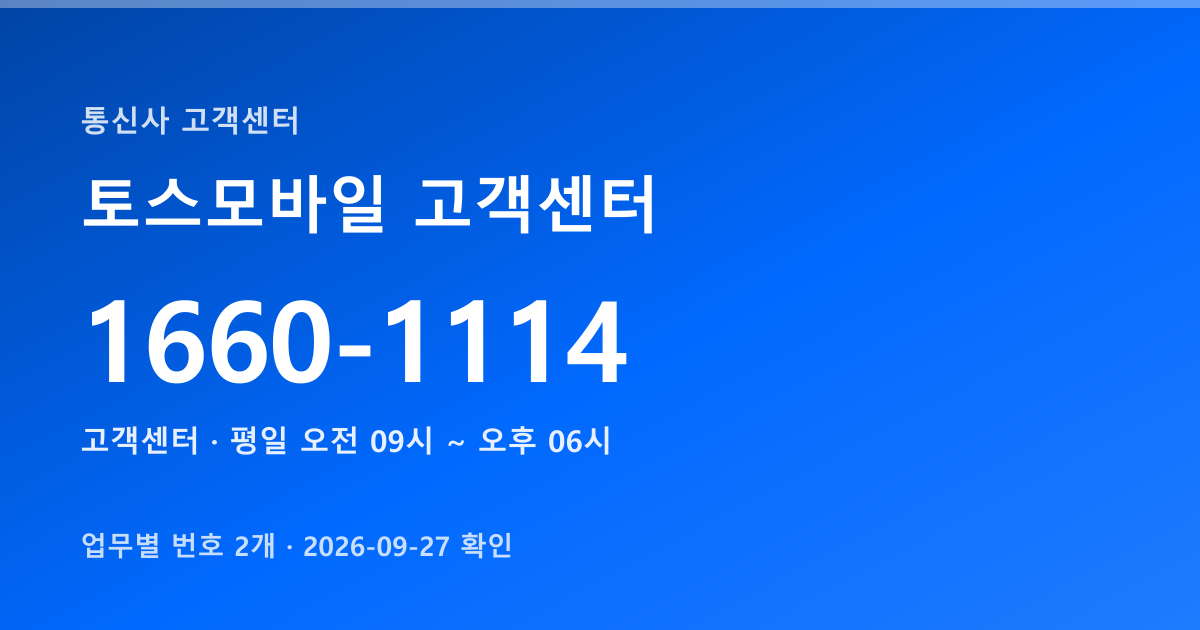
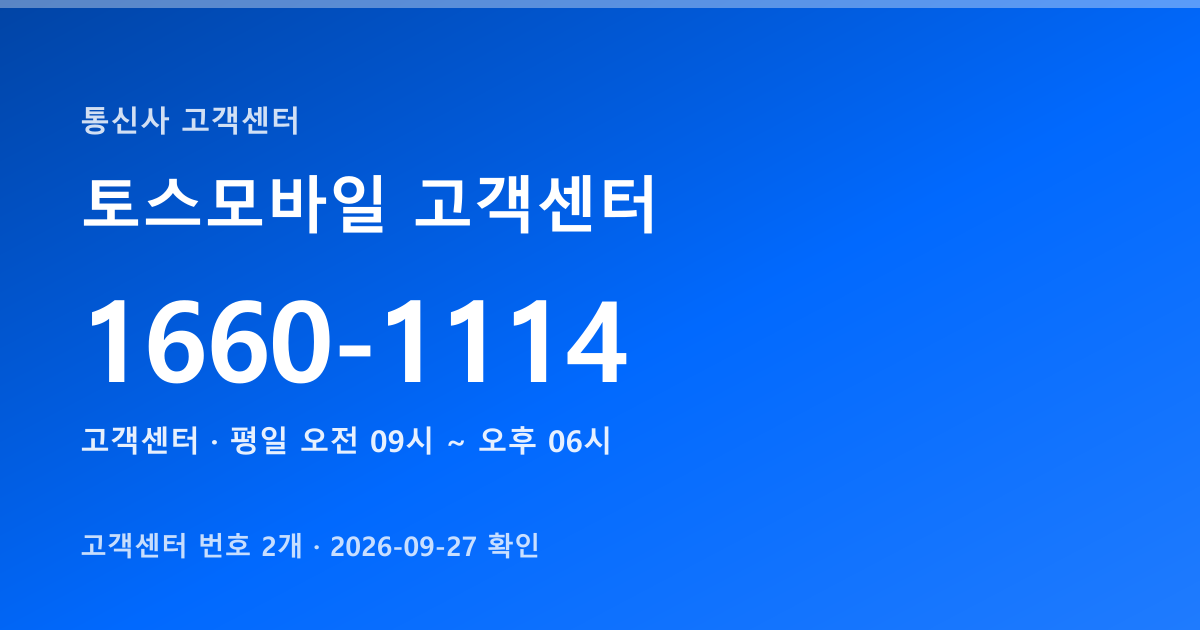
fix: OG 카드도 numbersIntro 글은 '고객센터 번호' 로

Changed region(s): [[0.0617, 0.8444, 0.4625, 0.9048]]

diff --git a/scripts/make-og-callcenter.ts b/scripts/make-og-callcenter.ts
@@ -96,7 +96,7 @@ let made = 0;
     <text x="80" y="228" font-size="62" font-weight="800">${esc(c.name)}${c.industry === 'loan' ? ' 대출' : ''} 고객센터</text>
     <text x="80" y="382" font-size="112" font-weight="800" letter-spacing="-2">${esc(c.main.tel)}</text>
     <text x="80" y="452" font-size="30" font-weight="600" opacity=".9">${esc(c.main.label)}${hours ? ' · ' + esc(hours) : ''}</text>
-    <text x="80" y="556" font-size="27" font-weight="600" opacity=".78">업무별 번호 ${(c.numbers || []).length}개 · ${hasAgent ? `${agent} 연결 · ` : ''}${esc(c.verifiedAt)} 확인</text>
+    <text x="80" y="556" font-size="27" font-weight="600" opacity=".78">${c.numbersIntro ? '고객센터 번호' : '업무별 번호'} ${(c.numbers || []).length}개 · ${hasAgent ? `${agent} 연결 · ` : ''}${esc(c.verifiedAt)} 확인</text>
   </g>
 </svg>`;
 
